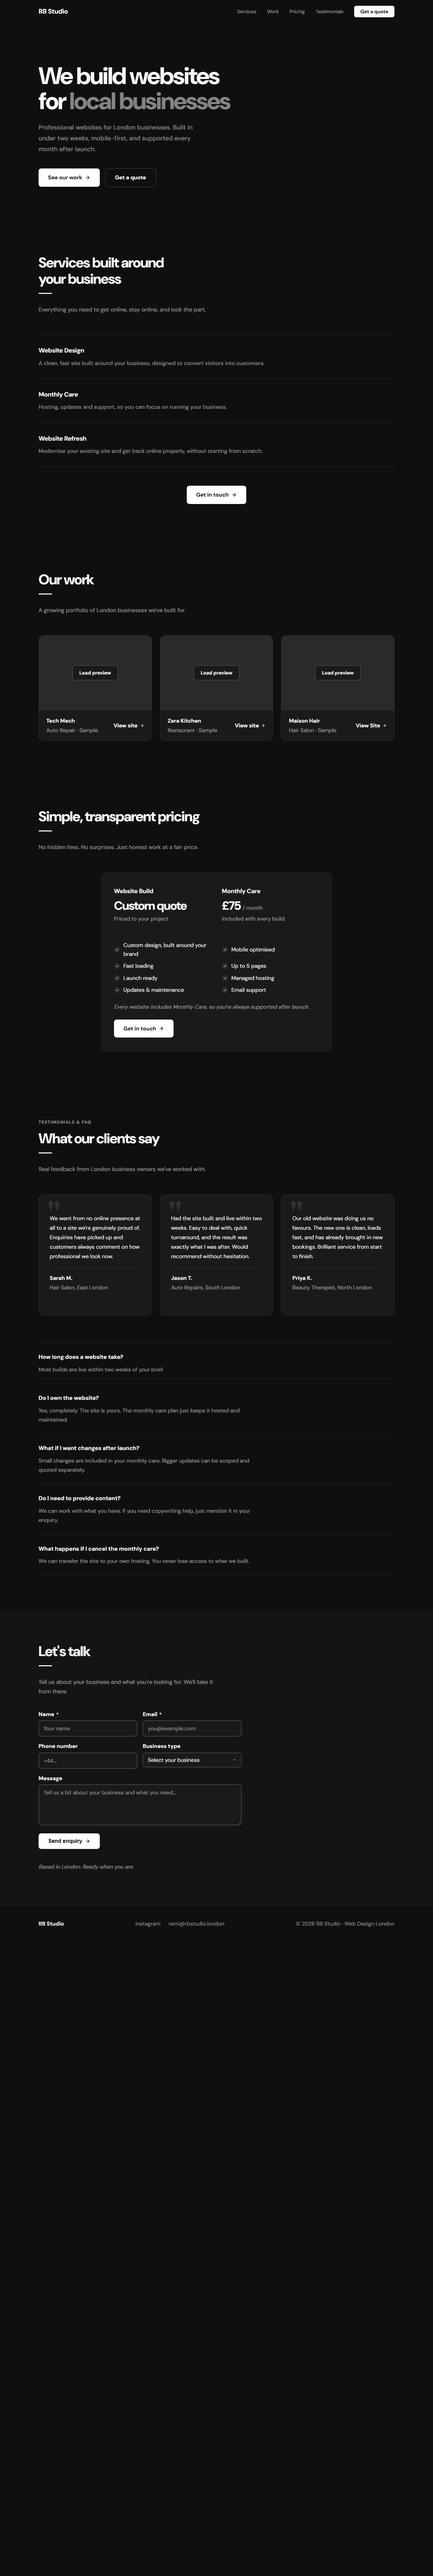
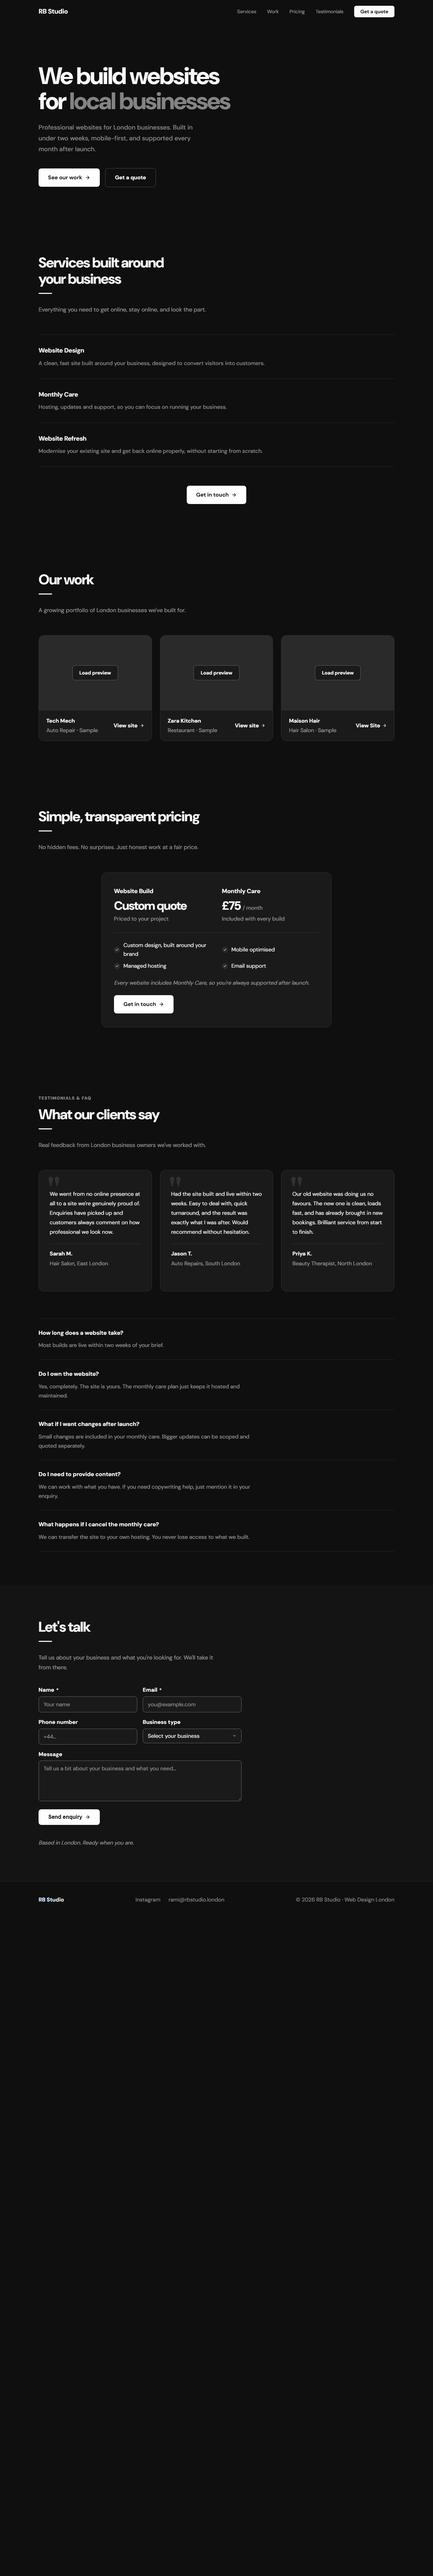
Trim pricing list to four features
Keep Custom design, Mobile optimised, Managed hosting and Email support,
and remove Fast loading, Up to 5 pages, Launch ready and Updates and
maintenance. Refresh renders.

diff --git a/index.html b/index.html
@@ -1326,11 +1326,7 @@
           <ul class="pricing-list">
             <li>Custom design, built around your brand</li>
             <li>Mobile optimised</li>
-            <li>Fast loading</li>
-            <li>Up to 5 pages</li>
-            <li>Launch ready</li>
             <li>Managed hosting</li>
-            <li>Updates &amp; maintenance</li>
             <li>Email support</li>
           </ul>
           <p class="pricing-note">Every website includes Monthly Care, so you're always supported after launch.</p>
